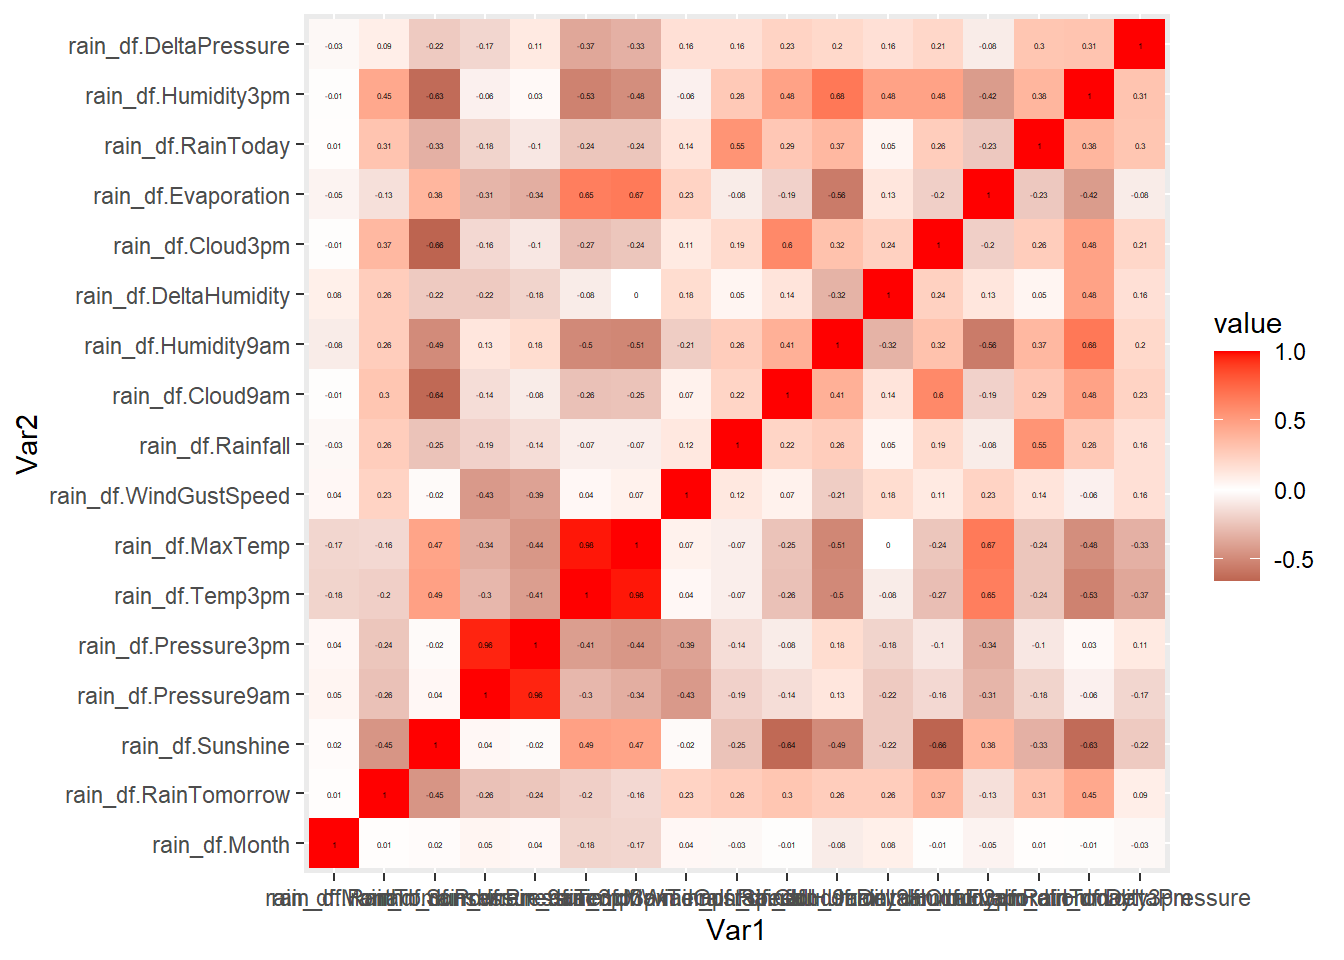
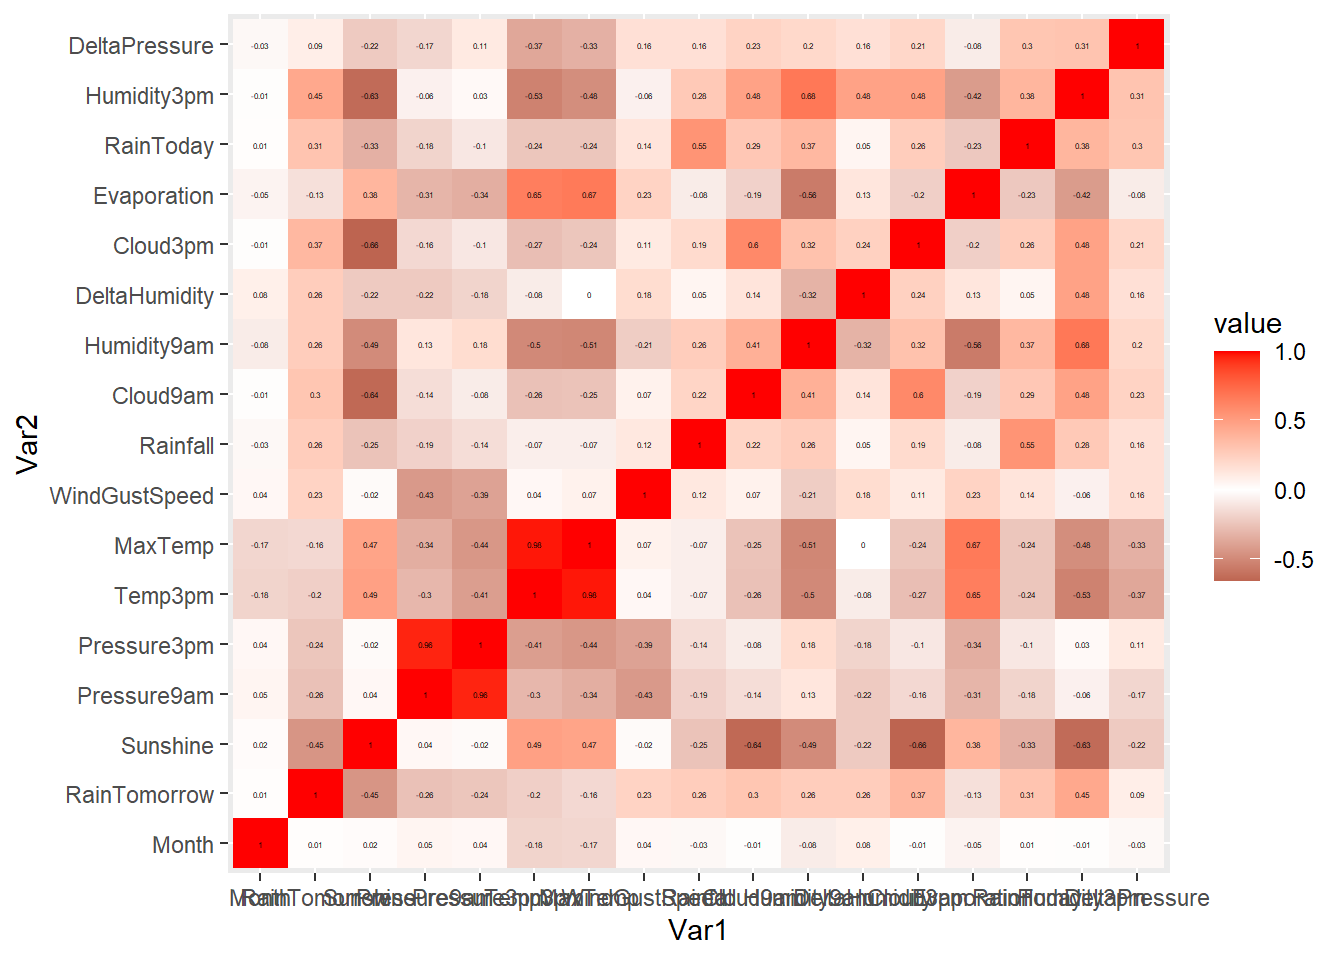
Everything till 5. is finished. Minor bug fixed in rain_df_selected dataframe (collumns were named after rain_df)

Changed region(s): [[0.0312, 0.0, 0.9375, 1.0]]

diff --git a/project_RR.html b/project_RR.html
@@ -162,9 +162,10 @@ code span.wa { color: #60a0b0; font-weight: bold; font-style: italic; } /* Warni
 <span id="cb3-11"><a href="#cb3-11" aria-hidden="true" tabindex="-1"></a><span class="fu">library</span>(MLmetrics) <span class="co">#metrics for machine learning (similar to Metrics library)</span></span>
 <span id="cb3-12"><a href="#cb3-12" aria-hidden="true" tabindex="-1"></a><span class="fu">library</span>(e1071) <span class="co">#svm</span></span>
 <span id="cb3-13"><a href="#cb3-13" aria-hidden="true" tabindex="-1"></a><span class="fu">library</span>(xgboost) <span class="co">#xgboost model</span></span>
-<span id="cb3-14"><a href="#cb3-14" aria-hidden="true" tabindex="-1"></a><span class="fu">library</span>(caret) <span class="co">#dummy variables, precision metrics, knn</span></span>
-<span id="cb3-15"><a href="#cb3-15" aria-hidden="true" tabindex="-1"></a><span class="fu">library</span>(RSBID) <span class="co">#We will need SMOTE_NC from it</span></span>
-<span id="cb3-16"><a href="#cb3-16" aria-hidden="true" tabindex="-1"></a><span class="fu">library</span>(tidyverse) <span class="co">#collection of packages for data science</span></span></code><button title="Copy to Clipboard" class="code-copy-button"><i class="bi"></i></button></pre></div>
+<span id="cb3-14"><a href="#cb3-14" aria-hidden="true" tabindex="-1"></a><span class="fu">library</span>(caret) <span class="co">#precision metrics, knn</span></span>
+<span id="cb3-15"><a href="#cb3-15" aria-hidden="true" tabindex="-1"></a><span class="fu">library</span>(fastDummies)</span>
+<span id="cb3-16"><a href="#cb3-16" aria-hidden="true" tabindex="-1"></a><span class="fu">library</span>(RSBID) <span class="co">#We will need SMOTE_NC from it</span></span>
+<span id="cb3-17"><a href="#cb3-17" aria-hidden="true" tabindex="-1"></a><span class="fu">library</span>(tidyverse) <span class="co">#collection of packages for data science</span></span></code><button title="Copy to Clipboard" class="code-copy-button"><i class="bi"></i></button></pre></div>
 </div>
 <p>Data loading:</p>
 <div class="cell">
@@ -1308,52 +1309,31 @@ rain_df.DeltaCloud      0.044685159</code></pre>
 <div class="cell">
 <div class="sourceCode cell-code" id="cb115"><pre class="sourceCode r code-with-copy"><code class="sourceCode r"><span id="cb115-1"><a href="#cb115-1" aria-hidden="true" tabindex="-1"></a><span class="co">#Select best features</span></span>
 <span id="cb115-2"><a href="#cb115-2" aria-hidden="true" tabindex="-1"></a></span>
-<span id="cb115-3"><a href="#cb115-3" aria-hidden="true" tabindex="-1"></a>rain_df_selected <span class="ot">&lt;-</span> <span class="fu">data.frame</span>(rain_df<span class="sc">$</span>Month, rain_df<span class="sc">$</span>RainTomorrow, rain_df<span class="sc">$</span>Sunshine, rain_df<span class="sc">$</span>Pressure9am, rain_df<span class="sc">$</span>Pressure3pm, rain_df<span class="sc">$</span>Temp3pm, rain_df<span class="sc">$</span>MaxTemp, rain_df<span class="sc">$</span>WindGustSpeed, rain_df<span class="sc">$</span>Rainfall, rain_df<span class="sc">$</span>Cloud9am, rain_df<span class="sc">$</span>Humidity9am, rain_df<span class="sc">$</span>DeltaHumidity, rain_df<span class="sc">$</span>Cloud3pm, rain_df<span class="sc">$</span>Evaporation , rain_df<span class="sc">$</span>RainToday, rain_df<span class="sc">$</span>Humidity3pm, rain_df<span class="sc">$</span>DeltaPressure, rain_df<span class="sc">$</span>WindGustDir, rain_df<span class="sc">$</span>WindChange)</span>
+<span id="cb115-3"><a href="#cb115-3" aria-hidden="true" tabindex="-1"></a>rain_df_selected <span class="ot">&lt;-</span> rain_df[,<span class="fu">c</span>(<span class="st">"Month"</span>,<span class="st">"RainTomorrow"</span>,<span class="st">"Sunshine"</span>,<span class="st">"Pressure9am"</span>,<span class="st">"Pressure3pm"</span>,<span class="st">"Temp3pm"</span>,<span class="st">"MaxTemp"</span>,<span class="st">"WindGustSpeed"</span>,<span class="st">"Rainfall"</span>,<span class="st">"Cloud9am"</span>,<span class="st">"Humidity9am"</span>,<span class="st">"DeltaHumidity"</span>,<span class="st">"Cloud3pm"</span>,<span class="st">"Evaporation"</span>,<span class="st">"RainToday"</span>,<span class="st">"Humidity3pm"</span>,<span class="st">"DeltaPressure"</span>,<span class="st">"WindGustDir"</span>,<span class="st">"WindChange"</span>)]</span>
 <span id="cb115-4"><a href="#cb115-4" aria-hidden="true" tabindex="-1"></a></span>
 <span id="cb115-5"><a href="#cb115-5" aria-hidden="true" tabindex="-1"></a><span class="fu">tail</span>(rain_df_selected)</span></code><button title="Copy to Clipboard" class="code-copy-button"><i class="bi"></i></button></pre></div>
 <div class="cell-output cell-output-stdout">
-<pre><code>      rain_df.Month rain_df.RainTomorrow rain_df.Sunshine rain_df.Pressure9am
-74372             6                    0             10.9              1014.6
-74373             6                    0             11.0              1013.9
-74374             6                    0              8.6              1014.6
-74375             6                    0             11.0              1015.3
-74376             6                    0             10.6              1014.9
-74377             6                    0             10.7              1013.9
-      rain_df.Pressure3pm rain_df.Temp3pm rain_df.MaxTemp rain_df.WindGustSpeed
-74372              1010.6            32.7            33.0                    44
-74373              1010.5            32.3            33.4                    35
-74374              1011.2            32.0            32.6                    37
-74375              1011.8            32.1            32.8                    33
-74376              1010.7            29.2            31.8                    26
-74377              1009.7            31.0            31.7                    30
-      rain_df.Rainfall rain_df.Cloud9am rain_df.Humidity9am
-74372                0                1                  43
-74373                0                0                  63
-74374                0                7                  56
-74375                0                0                  46
-74376                0                1                  62
-74377                0                6                  73
-      rain_df.DeltaHumidity rain_df.Cloud3pm rain_df.Evaporation
-74372                   -15                1                 5.2
-74373                   -31                1                 6.0
-74374                   -28                0                 7.6
-74375                   -23                0                 5.6
-74376                    -4                1                 6.2
-74377                   -41                5                 5.6
-      rain_df.RainToday rain_df.Humidity3pm rain_df.DeltaPressure
-74372                 0                  28                  -4.0
-74373                 0                  32                  -3.4
-74374                 0                  28                  -3.4
-74375                 0                  23                  -3.5
-74376                 0                  58                  -4.2
-74377                 0                  32                  -4.2
-      rain_df.WindGustDir rain_df.WindChange
-74372                   E                 EE
-74373                   E                 NE
-74374                   E                 EE
-74375                   E                 WE
-74376                   E                 NE
-74377                   E                 NE</code></pre>
+<pre><code>      Month RainTomorrow Sunshine Pressure9am Pressure3pm Temp3pm MaxTemp
+74372     6            0     10.9      1014.6      1010.6    32.7    33.0
+74373     6            0     11.0      1013.9      1010.5    32.3    33.4
+74374     6            0      8.6      1014.6      1011.2    32.0    32.6
+74375     6            0     11.0      1015.3      1011.8    32.1    32.8
+74376     6            0     10.6      1014.9      1010.7    29.2    31.8
+74377     6            0     10.7      1013.9      1009.7    31.0    31.7
+      WindGustSpeed Rainfall Cloud9am Humidity9am DeltaHumidity Cloud3pm
+74372            44        0        1          43           -15        1
+74373            35        0        0          63           -31        1
+74374            37        0        7          56           -28        0
+74375            33        0        0          46           -23        0
+74376            26        0        1          62            -4        1
+74377            30        0        6          73           -41        5
+      Evaporation RainToday Humidity3pm DeltaPressure WindGustDir WindChange
+74372         5.2         0          28          -4.0           E         EE
+74373         6.0         0          32          -3.4           E         NE
+74374         7.6         0          28          -3.4           E         EE
+74375         5.6         0          23          -3.5           E         WE
+74376         6.2         0          58          -4.2           E         NE
+74377         5.6         0          32          -4.2           E         NE</code></pre>
 </div>
 </div>
 <div class="cell">
@@ -1382,41 +1362,27 @@ rain_df.DeltaCloud      0.044685159</code></pre>
 <span id="cb119-2"><a href="#cb119-2" aria-hidden="true" tabindex="-1"></a></span>
 <span id="cb119-3"><a href="#cb119-3" aria-hidden="true" tabindex="-1"></a><span class="fu">tail</span>(rain_df_selected)</span></code><button title="Copy to Clipboard" class="code-copy-button"><i class="bi"></i></button></pre></div>
 <div class="cell-output cell-output-stdout">
-<pre><code>      rain_df.Month rain_df.RainTomorrow rain_df.Sunshine rain_df.Pressure3pm
-74372             6                    0             10.9              1010.6
-74373             6                    0             11.0              1010.5
-74374             6                    0              8.6              1011.2
-74375             6                    0             11.0              1011.8
-74376             6                    0             10.6              1010.7
-74377             6                    0             10.7              1009.7
-      rain_df.MaxTemp rain_df.WindGustSpeed rain_df.Rainfall rain_df.Cloud9am
-74372            33.0                    44                0                1
-74373            33.4                    35                0                0
-74374            32.6                    37                0                7
-74375            32.8                    33                0                0
-74376            31.8                    26                0                1
-74377            31.7                    30                0                6
-      rain_df.Humidity9am rain_df.DeltaHumidity rain_df.Cloud3pm
-74372                  43                   -15                1
-74373                  63                   -31                1
-74374                  56                   -28                0
-74375                  46                   -23                0
-74376                  62                    -4                1
-74377                  73                   -41                5
-      rain_df.Evaporation rain_df.RainToday rain_df.Humidity3pm
-74372                 5.2                 0                  28
-74373                 6.0                 0                  32
-74374                 7.6                 0                  28
-74375                 5.6                 0                  23
-74376                 6.2                 0                  58
-74377                 5.6                 0                  32
-      rain_df.DeltaPressure rain_df.WindGustDir rain_df.WindChange
-74372                  -4.0                   E                 EE
-74373                  -3.4                   E                 NE
-74374                  -3.4                   E                 EE
-74375                  -3.5                   E                 WE
-74376                  -4.2                   E                 NE
-74377                  -4.2                   E                 NE</code></pre>
+<pre><code>      Month RainTomorrow Sunshine Pressure3pm MaxTemp WindGustSpeed Rainfall
+74372     6            0     10.9      1010.6    33.0            44        0
+74373     6            0     11.0      1010.5    33.4            35        0
+74374     6            0      8.6      1011.2    32.6            37        0
+74375     6            0     11.0      1011.8    32.8            33        0
+74376     6            0     10.6      1010.7    31.8            26        0
+74377     6            0     10.7      1009.7    31.7            30        0
+      Cloud9am Humidity9am DeltaHumidity Cloud3pm Evaporation RainToday
+74372        1          43           -15        1         5.2         0
+74373        0          63           -31        1         6.0         0
+74374        7          56           -28        0         7.6         0
+74375        0          46           -23        0         5.6         0
+74376        1          62            -4        1         6.2         0
+74377        6          73           -41        5         5.6         0
+      Humidity3pm DeltaPressure WindGustDir WindChange
+74372          28          -4.0           E         EE
+74373          32          -3.4           E         NE
+74374          28          -3.4           E         EE
+74375          23          -3.5           E         WE
+74376          58          -4.2           E         NE
+74377          32          -4.2           E         NE</code></pre>
 </div>
 </div>
 <div class="cell">
@@ -1435,14 +1401,131 @@ rain_df.DeltaCloud      0.044685159</code></pre>
 </section>
 <section id="balancing-and-standarizing" class="level1">
 <h1>4. Balancing and Standarizing</h1>
-<p>NADIMS PART</p>
+<p>First of all, we will be using SMOTE_NC (version of SMOTE which can use categorical variables) to rebalance our datasets:</p>
+<div class="cell">
+<div class="sourceCode cell-code" id="cb122"><pre class="sourceCode r code-with-copy"><code class="sourceCode r"><span id="cb122-1"><a href="#cb122-1" aria-hidden="true" tabindex="-1"></a>categorical <span class="ot">&lt;-</span> <span class="fu">c</span>(<span class="st">"Month"</span>,<span class="st">"RainTomorrow"</span>,<span class="st">"RainToday"</span>,<span class="st">"WindGustDir"</span>,<span class="st">"WindChange"</span>)</span>
+<span id="cb122-2"><a href="#cb122-2" aria-hidden="true" tabindex="-1"></a>rain_df_selected[,categorical] <span class="ot">&lt;-</span> <span class="fu">lapply</span>(rain_df_selected[,categorical],factor)</span>
+<span id="cb122-3"><a href="#cb122-3" aria-hidden="true" tabindex="-1"></a></span>
+<span id="cb122-4"><a href="#cb122-4" aria-hidden="true" tabindex="-1"></a></span>
+<span id="cb122-5"><a href="#cb122-5" aria-hidden="true" tabindex="-1"></a>data_selected<span class="ot">&lt;-</span><span class="fu">SMOTE_NC</span>(rain_df_selected,<span class="st">"RainTomorrow"</span>)</span></code><button title="Copy to Clipboard" class="code-copy-button"><i class="bi"></i></button></pre></div>
+</div>
+<p>Now, we will create dummy variables for our nonbinary categorical variables (k-1 dummy variables for factors with k levels, this wasn’t done in jupyter notebook code, but it should have been):</p>
+<div class="cell">
+<div class="sourceCode cell-code" id="cb123"><pre class="sourceCode r code-with-copy"><code class="sourceCode r"><span id="cb123-1"><a href="#cb123-1" aria-hidden="true" tabindex="-1"></a>data_selected<span class="ot">&lt;-</span><span class="fu">dummy_cols</span>(data_selected, <span class="at">select_columns =</span> <span class="fu">c</span>(<span class="st">"Month"</span>,<span class="st">"WindChange"</span>,<span class="st">"WindGustDir"</span>), <span class="at">remove_first_dummy =</span> <span class="cn">TRUE</span>, <span class="at">remove_selected_columns =</span> <span class="cn">TRUE</span>)</span></code><button title="Copy to Clipboard" class="code-copy-button"><i class="bi"></i></button></pre></div>
+</div>
+<p>Now, we sould standarize our data. We will use min-max scaler for it:</p>
+<div class="cell">
+<div class="sourceCode cell-code" id="cb124"><pre class="sourceCode r code-with-copy"><code class="sourceCode r"><span id="cb124-1"><a href="#cb124-1" aria-hidden="true" tabindex="-1"></a>process <span class="ot">&lt;-</span> <span class="fu">preProcess</span>(data_selected, <span class="at">method=</span><span class="fu">c</span>(<span class="st">"range"</span>))</span>
+<span id="cb124-2"><a href="#cb124-2" aria-hidden="true" tabindex="-1"></a></span>
+<span id="cb124-3"><a href="#cb124-3" aria-hidden="true" tabindex="-1"></a>data_selected_normalized <span class="ot">&lt;-</span> <span class="fu">predict</span>(process, data_selected)</span>
+<span id="cb124-4"><a href="#cb124-4" aria-hidden="true" tabindex="-1"></a></span>
+<span id="cb124-5"><a href="#cb124-5" aria-hidden="true" tabindex="-1"></a><span class="cf">for</span> (i <span class="cf">in</span> <span class="dv">2</span><span class="sc">:</span><span class="dv">14</span>)</span>
+<span id="cb124-6"><a href="#cb124-6" aria-hidden="true" tabindex="-1"></a>{</span>
+<span id="cb124-7"><a href="#cb124-7" aria-hidden="true" tabindex="-1"></a>  <span class="fu">print</span>(<span class="fu">colnames</span>(data_selected_normalized[i]))</span>
+<span id="cb124-8"><a href="#cb124-8" aria-hidden="true" tabindex="-1"></a>  <span class="fu">print</span>(<span class="fu">mean</span>(data_selected_normalized[,i]))</span>
+<span id="cb124-9"><a href="#cb124-9" aria-hidden="true" tabindex="-1"></a>}</span></code><button title="Copy to Clipboard" class="code-copy-button"><i class="bi"></i></button></pre></div>
+<div class="cell-output cell-output-stdout">
+<pre><code>[1] "Sunshine"
+[1] 0.4484937
+[1] "Pressure3pm"
+[1] 0.5969981
+[1] "MaxTemp"
+[1] 0.4294424
+[1] "WindGustSpeed"
+[1] 0.5153584
+[1] "Rainfall"
+[1] 0.04605154
+[1] "Cloud9am"
+[1] 0.5360402
+[1] "Humidity9am"
+[1] 0.7015975
+[1] "DeltaHumidity"
+[1] 0.4239085
+[1] "Cloud3pm"
+[1] 0.5508974
+[1] "Evaporation"
+[1] 0.365016
+[1] "RainToday"
+[1] NA
+[1] "Humidity3pm"
+[1] 0.5630995
+[1] "DeltaPressure"
+[1] 0.5178004</code></pre>
+</div>
+</div>
+<p>Mean values are not the same as in the jupyter notebook Python code, most probably it is due to the fact, that SMOTE_NC function works in slightly different way - sill changes are a magnitude of <span class="math inline">\(10^{-4}\)</span>.</p>
 </section>
 <section id="split-train-and-test" class="level1">
 <h1>5. Split train and test</h1>
-<p>#```{r} set.seed(111)</p>
-<p>split1&lt;- sample(nrow(rain_df),floor(nrow(rain_df)*0.7),replace=FALSE)</p>
-<p>train &lt;- rain_df[split1,]</p>
-<p>test &lt;- rain_df[-split1,] #&lt;&lt;&lt;&lt;&lt;&lt;&lt; HEAD #<code>======= head(train)</code> &gt;&gt;&gt;&gt;&gt;&gt;&gt; 1b3e2b3bbf38c00b31d322a3bd672e29a047b39a</p>
+<div class="cell">
+<div class="sourceCode cell-code" id="cb126"><pre class="sourceCode r code-with-copy"><code class="sourceCode r"><span id="cb126-1"><a href="#cb126-1" aria-hidden="true" tabindex="-1"></a><span class="fu">set.seed</span>(<span class="dv">111</span>)</span>
+<span id="cb126-2"><a href="#cb126-2" aria-hidden="true" tabindex="-1"></a></span>
+<span id="cb126-3"><a href="#cb126-3" aria-hidden="true" tabindex="-1"></a>split1<span class="ot">&lt;-</span> <span class="fu">sample</span>(<span class="fu">nrow</span>(data_selected_normalized),<span class="fu">floor</span>(<span class="fu">nrow</span>(data_selected_normalized)<span class="sc">*</span><span class="fl">0.7</span>),<span class="at">replace=</span><span class="cn">FALSE</span>)</span>
+<span id="cb126-4"><a href="#cb126-4" aria-hidden="true" tabindex="-1"></a></span>
+<span id="cb126-5"><a href="#cb126-5" aria-hidden="true" tabindex="-1"></a>train <span class="ot">&lt;-</span> data_selected_normalized[split1,]</span>
+<span id="cb126-6"><a href="#cb126-6" aria-hidden="true" tabindex="-1"></a></span>
+<span id="cb126-7"><a href="#cb126-7" aria-hidden="true" tabindex="-1"></a>test <span class="ot">&lt;-</span> data_selected_normalized[<span class="sc">-</span>split1,]</span>
+<span id="cb126-8"><a href="#cb126-8" aria-hidden="true" tabindex="-1"></a></span>
+<span id="cb126-9"><a href="#cb126-9" aria-hidden="true" tabindex="-1"></a><span class="fu">head</span>(train)</span></code><button title="Copy to Clipboard" class="code-copy-button"><i class="bi"></i></button></pre></div>
+<div class="cell-output cell-output-stdout">
+<pre><code>       RainTomorrow   Sunshine Pressure3pm   MaxTemp WindGustSpeed    Rainfall
+113147            1 0.38571500   0.4171573 0.6827921     0.6033740 0.044507845
+99283             1 0.50957170   0.4868742 0.6322059     0.3950592 0.062206801
+27417             0 0.60000000   0.6488673 0.5795455     0.3720930 0.000000000
+34885             0 0.44137931   0.7491909 0.2227273     0.1240310 0.002666667
+6140              0 0.59310345   0.5469256 0.4000000     0.5271318 0.002666667
+104218            1 0.04639283   0.5924522 0.2334527     0.6046512 0.091835773
+        Cloud9am Humidity9am DeltaHumidity  Cloud3pm Evaporation RainToday
+113147 0.7777778   0.7926191     0.3898836 0.6812173  0.40353748         1
+99283  0.8281049   0.6900000     0.4093036 0.5346418  0.25081387         1
+27417  0.7777778   0.5500000     0.3351648 0.7777778  0.90225564         0
+34885  0.4749152   0.9900000     0.3791209 0.4828924  0.04511278         0
+6140   0.4444444   0.7000000     0.4560440 0.4828924  0.48120301         0
+104218 0.8888889   0.9900000     0.4668469 0.5730597  0.10628169         1
+       Humidity3pm DeltaPressure Month_2 Month_3 Month_4 Month_5 Month_6
+113147   0.5900000     0.5103171       0       0       0       0       0
+99283    0.5249326     0.5068387       0       1       0       0       0
+27417    0.2500000     0.5340595       0       0       0       0       0
+34885    0.7700000     0.5168567       0       0       0       1       0
+6140     0.6200000     0.5082553       0       0       0       0       0
+104218   0.9338846     0.5521555       0       0       0       0       1
+       Month_7 Month_8 Month_9 Month_10 Month_11 Month_12 WindChange_EN
+113147       0       0       0        0        0        1             0
+99283        0       0       0        0        0        0             0
+27417        0       0       0        0        0        0             0
+34885        0       0       0        0        0        0             0
+6140         0       0       0        0        1        0             0
+104218       0       0       0        0        0        0             0
+       WindChange_ES WindChange_EW WindChange_NE WindChange_NN WindChange_NS
+113147             0             0             0             0             0
+99283              0             0             0             0             0
+27417              0             0             0             0             0
+34885              0             0             0             0             0
+6140               0             0             0             0             0
+104218             0             0             0             0             0
+       WindChange_NW WindChange_SE WindChange_SN WindChange_SS WindChange_SW
+113147             0             0             0             0             0
+99283              1             0             0             0             0
+27417              0             1             0             0             0
+34885              0             0             0             0             0
+6140               0             0             0             0             0
+104218             0             0             0             0             0
+       WindChange_WE WindChange_WN WindChange_WS WindChange_WW WindGustDir_N
+113147             0             0             0             1             0
+99283              0             0             0             0             1
+27417              0             0             0             0             0
+34885              0             1             0             0             1
+6140               0             0             1             0             0
+104218             0             1             0             0             0
+       WindGustDir_S WindGustDir_W
+113147             0             0
+99283              0             0
+27417              0             0
+34885              0             0
+6140               0             1
+104218             0             0</code></pre>
+</div>
+</div>
 </section>
 <section id="logistic-regression" class="level1">
 <h1>6. Logistic Regression</h1>
